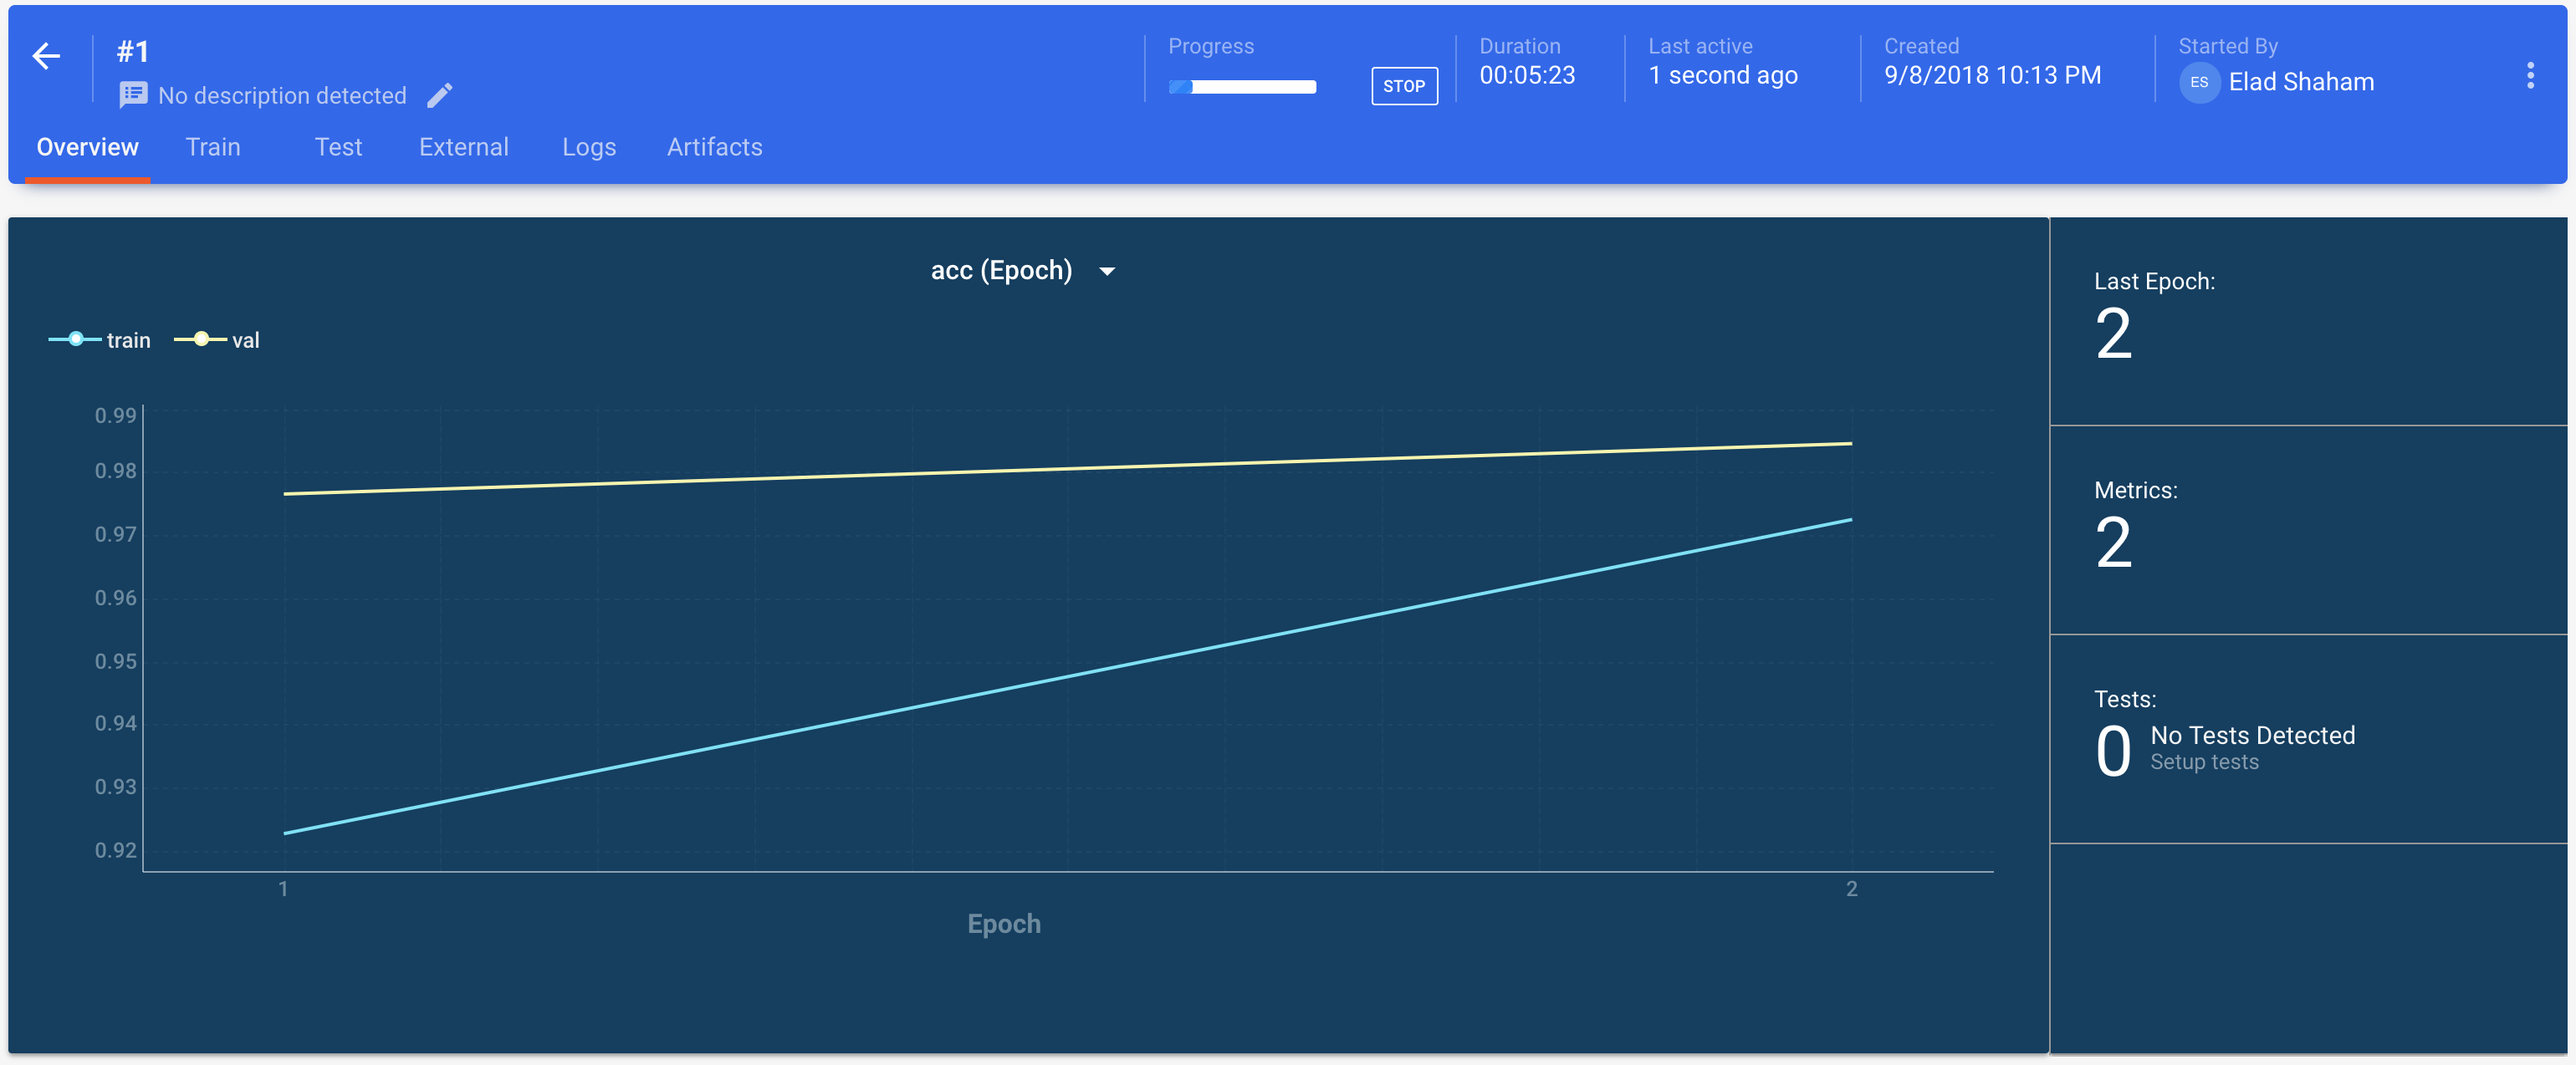
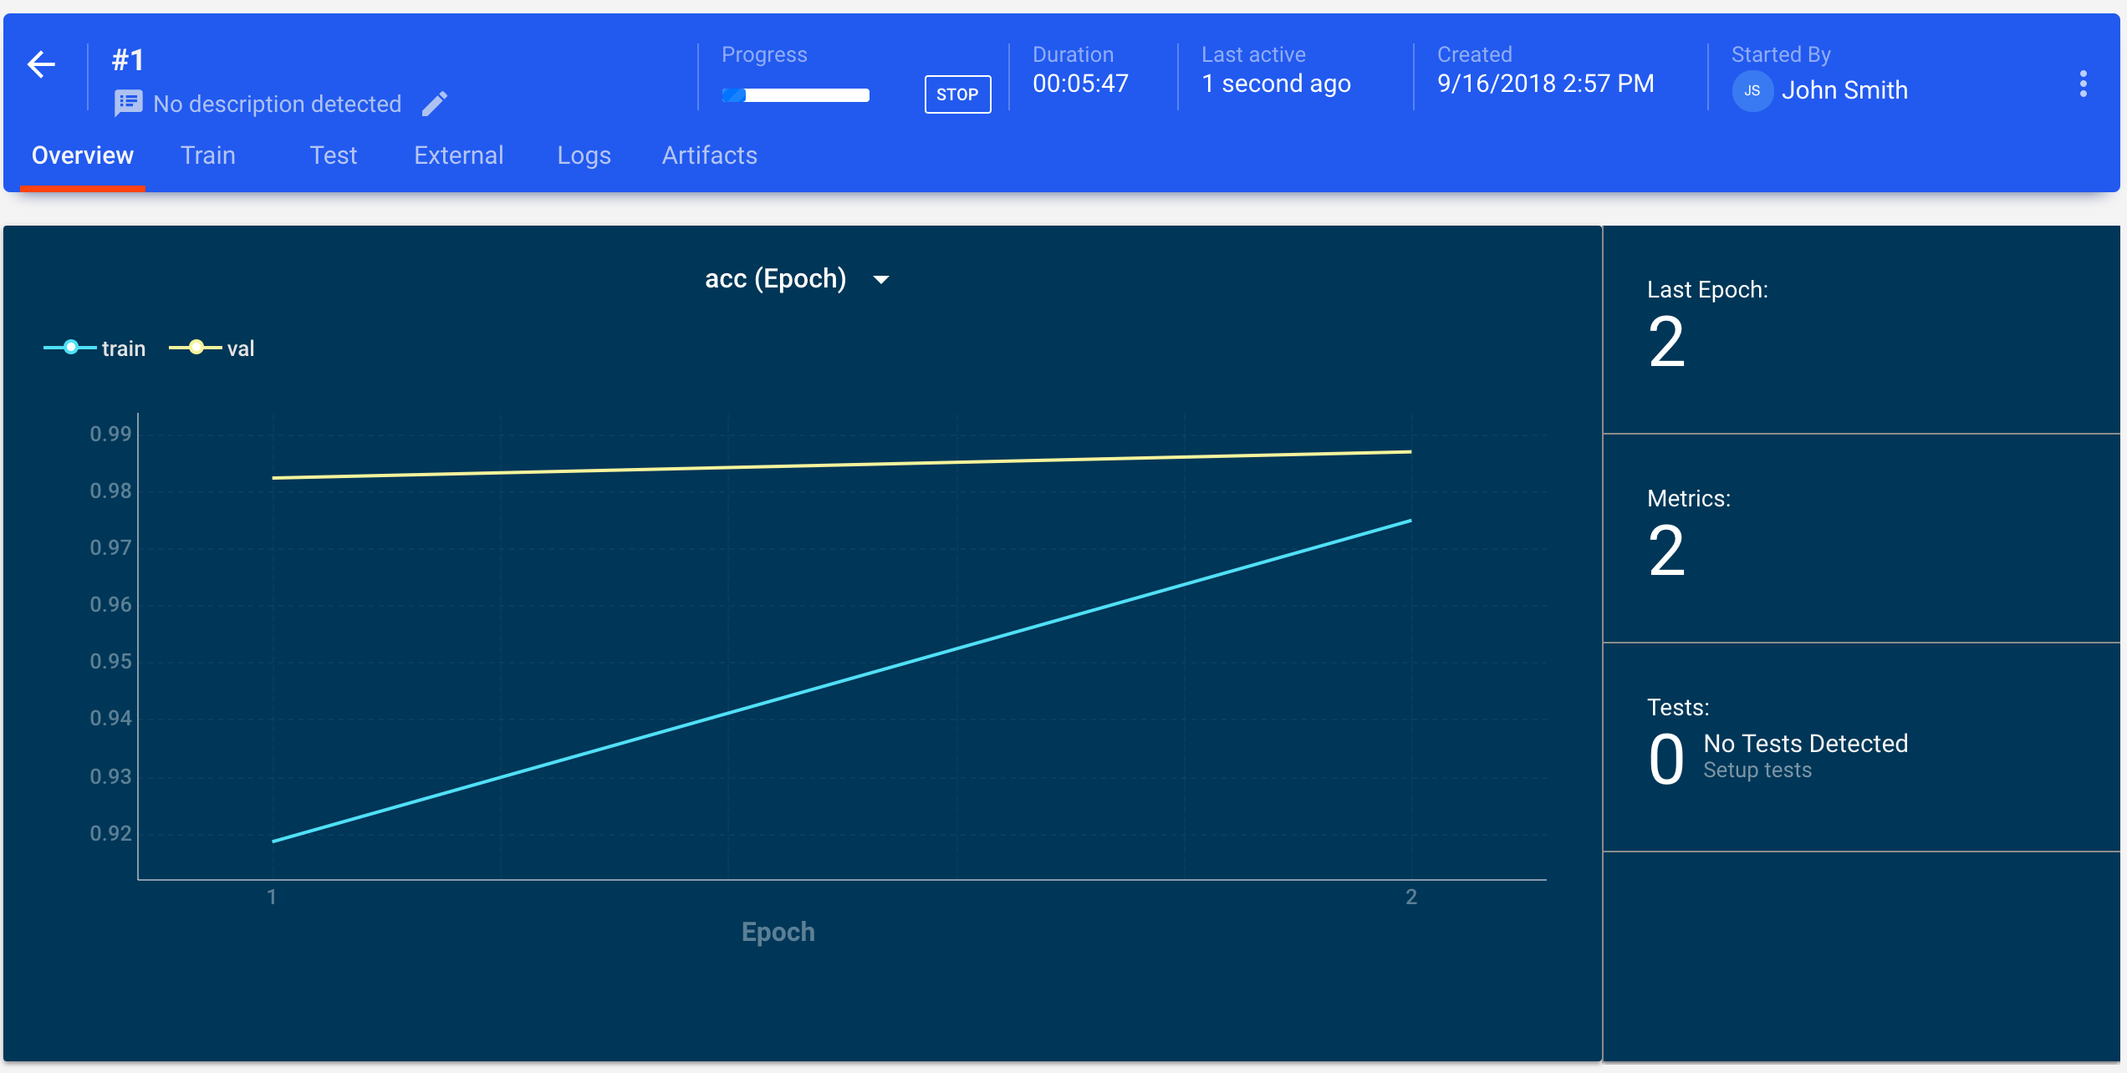
General edit and replacement of two images "John Smith"

diff --git a/docs/missinglink-keras-tutorial1.md b/docs/missinglink-keras-tutorial1.md
@@ -1,46 +1,49 @@
-# Intro
+# Introduction
 
-In this tutorial we will take an existing implementation of a deep learning algorithm and integrate it into the MissingLink system. We will take a code sample training on the MNIST dataset using a convolutional neural network, add the MissingLink SDK and eventually run the experiment in a MissingLink controlled emulated server.
+In this tutorial we will take the existing implementation of a deep learning algorithm and integrate it into the MissingLink system. 
+
+We start with a [code sample](https://github.com/keras-team/keras/blob/master/examples/mnist_cnn.py) that trains a model that is based on the MNIST dataset using a convolutional neural network, add the MissingLink SDK and eventually run the experiment in a MissingLink controlled emulated server.
 
 # Getting Started
 
 ## Prerequisites
 
-To run this tutorial you will need a MissingLink account. If don't already have one, please [head to the MissingLink website and sign up](https://missinglink.ai/console/signup/userdetails).
+To run this tutorial you will need a MissingLink account. If you don't have one, please [head to the MissingLink website and sign up](https://missinglink.ai/console/signup/userdetails).
 
 ---
 **NOTE**  
-This tutorial is assuming you’re using virtualenv to scope your working environment.
-If you don't have it installed already, you can follow [this guide](https://packaging.python.org/guides/installing-using-pip-and-virtualenv/).
+This tutorial assumes you’re using virtualenv to scope your working environment.
+If you don't have it installed, you can follow [this guide](https://packaging.python.org/guides/installing-using-pip-and-virtualenv/) to get it set up.
 
 ---
 
-## First Thing’s First
+## First Things First
 
-Let’s head to the MissingLink Keras Tutorial 1 [Github repository](https://github.com/missinglinkai/missinglink-keras-tutorial1), and examine it. Notice it contains the program file, `mnist_cnn.py`, and a `requirements.txt` file. This code trains a simple convnet on the MNIST dataset (borrowed from [Keras examples](https://github.com/keras-team/keras/blob/master/examples/mnist_cnn.py)).  
+Let’s head to the MissingLink Keras Tutorial 1 [Github repository](https://github.com/missinglinkai/missinglink-keras-tutorial1), and examine it.
 
-In order for us to make changes, we will need to create a copy of the repo and fetch it to your local development environment.  
-Please go ahead and create a fork of the [tutorial repository](https://github.com/missinglinkai/missinglink-keras-tutorial1), by clicking on the fork button.
+ Notice it contains the program file, `mnist_cnn.py`, and a `requirements.txt` file. This code trains a simple convnet on the MNIST dataset (borrowed from [Keras examples](https://github.com/keras-team/keras/blob/master/examples/mnist_cnn.py)).  
+
+To make changes, you will need to create a copy of the repo and fetch it to your local development environment. Please go ahead and create a fork of the [tutorial repository](https://github.com/missinglinkai/missinglink-keras-tutorial1) by clicking the fork button.
 
 ![Fork on Github](../images/fork_repo.png)
 
 <!--- TODO: take another screenshot when we make the repo public --->
 
-After the forked repository was created, we will need to clone it locally in our workstation. Click the clone button in Github:
+After the forked repository is created, clone it locally in your workstation. Click the clone button in Github:
 
 ![Fork on Github](../images/clone_button.png)
 
-Now copy the url for cloning the repository:
+Now copy the URL for cloning the repository:
 
 ![Copy repo url](../images/copy_repo_url_button.png)
 
-Next, let’s open our terminal and git clone using the pasted url of your forked repository:  
+Next, let’s open a terminal and `git clone` using the pasted URL of your forked repository:  
 
 ```bash
 $ git clone git@github.com:<YOUR_GITHUB_USERNAME>/missinglink-keras-tutorial1.git
 ```
 
-Now that the code is on your machine, let's prepare our environment:
+Now that the code is on your machine, let's prepare the environment. Run the following commands:
 
 ```bash
 $ python3 -m virtualenv env
@@ -62,23 +65,26 @@ As you can see, the code runs the experiment in 12 epochs.
 
 # Integrating the MissingLink SDK
 
-Now, let's see how by adding a few lines of code and a few commands, we're able to follow our experiment in MissingLinks web dashboard.
+Now, let's see how, by adding a few lines of code and a few commands, we're able to follow the experiment in MissingLink's web dashboard.
 
-## Install and init the MissingLink CLI
+## Install and initialize the MissingLink CLI
 
-MissingLink provides a CLI (command line interface) which allows you to control everything from the terminal.
+MissingLink provides a command line interface (CLI) that allows you to control everything from the terminal.
+
 Let's go ahead and install it:
 
 ```bash
 $ pip install MissingLink
 ```
 
-Next we want to authenticate with the MissingLink backend.
+Next, authenticate with the MissingLink backend.
 
 ---
-**NOTE**  
+**NOTE**
 Once you run the following command, a browser window will launch and navigate to the MissingLink website.
-If you're not logged in, you will be asked to login. When the process is completed, you will get a message to go back to the console.
+
+If you're not logged in, you will be asked to log on. When the process is completed, you will get a message to go back to the terminal.
+
 
 ---
 
@@ -96,14 +102,14 @@ $ ml projects create --display-name tutorials
 
 ---
 **NOTE**  
-You can see a list of all your projects by running `ml projects list`, or obviously by going to the [MissingLink web console](https://missinglink.ai/console).
+You can see a list of all your projects by running `ml projects list`, or obviously, by going to the [MissingLink web dashboard](https://missinglink.ai/console).
 
 ---
 
 ## Updating the requirements
 
-Let's go ahead and open the code in your favorite IDE.
-We need to add the MissingLink SDK as a requirement under `requirements.txt` file:
+Go ahead and open the code in your favorite IDE.
+Add the MissingLink SDK as a requirement under the `requirements.txt` file:
 
 ```diff
 tensorflow
@@ -111,7 +117,7 @@ keras
 +missinglink
 ```
 
-Now let's install the new requirements:
+Now install the new requirements:
 
 ```bash
 $ pip install -r requirements.txt
@@ -133,7 +139,7 @@ epochs = 12
 // ...
 ```
 
-Now we need to initialize a callback object that we could have Keras call during the different stages of the experiment.
+Now we need to initialize a callback object that Keras will call during the different stages of the experiment:
 
 <!--- TODO: Make sure it works without user id and project id / token) --->
 
@@ -151,8 +157,9 @@ epochs = 12
 // ...
 ```
 
-Finally let's have Keras use our callback object. We want to add calls during fitting and test stages.  
-Let's scroll all the way to the bottom of the file and add the MissingLink callback to the `fit()` function call:
+Finally, let Keras use our callback object. We want to add calls during the training and test stages.  
+
+Scroll all the way to the bottom of the file and add the MissingLink callback to the `fit()` function call:
 
 ```diff
 // ...
@@ -169,7 +176,7 @@ print('Test accuracy:', score[1])
 // ...
 ```
 
-Lastly, we want to let the MissingLink SDK know we're starting the testing stage:
+Lastly, let the MissingLink SDK know we're starting the testing stage:
 
 ```diff
 // ...
@@ -190,31 +197,31 @@ print('Test accuracy:', score[1])
 ```
 
 ## Run the Integrated Experiment
-We're now all set up to run the experiment again, but this time to see it in the Missing Link dashboard.  
+We're all set up to run the experiment again, but this time to see it in the Missing Link dashboard.  
 
-Let's go back to the terminal and run our script again:
+Go back to the terminal and run the script again:
 
 ```bash
 $ python mnist_cnn.py
 ```
 
-You should see the initialization and the beginning of training. Now, let's switch back to the MissingLink dashboard.
+You should see the initialization and the beginning of training. Now, switch back to the MissingLink dashboard.
 
-Open the [MissingLink console](https://missinglink.ai/console) and click on the projects toolbar button on the left. On this page you should see the list of experiments which belong to your project.
+Open the [MissingLink dashboard](https://missinglink.ai/console) and click the projects toolbar button on the left. In this page, you should see the list of experiments that belong to your project.
 
 ![List of projects](../images/project_list_tutorials_project.png)
 
-Choose the `tutorials` project, you will see your experiment appear.  
+Choose the `tutorials` project. Your experiment appears.  
 
-![Experiment in list](../images/tutorials_experiment.png)
+![Experiment in list](../images/tutorial_experiment.png)
 
-Now you can click anywhere on the experiment line to show more info about the experiment's progress.
+Now you can click anywhere on the experiment line to show more information about the experiment's progress.
 
 ![Experiment detailed view](../images/tutorials_experiment_info.png)
 
 ---
 **NOTE**  
-Feel free to browse through the table and the different tabs of the experiment you're running, and see how the metrics update as the experiment progresses. This tutorial does not include an explanation about these screens. For a detailed walkthrough, click here.
+Feel free to browse through the table and the different tabs of the experiment you're running, and see how the metrics update as the experiment progresses. This tutorial does not include an explanation about these screens. 
 
 ---
 
@@ -230,26 +237,31 @@ $ git push
 
 # Adding Resource Management
 
-Now that we have everything working so nicely on our local workstation, we would like to take the integration to the next level. MissingLink can help you manage your servers so that you don't have to worry about it.
-
+Now that we have everything working on our local workstation, let's take the integration to the next level. 
 <!--- TODO: Link to a good RM explanation --->
 
-The next step for us would be to run the experiment on a managed server. For the sake of simplicity, we will not connect real GPU servers in this tutorial, but rather emulate a real server on our local workstation. But it should definitely give you a sense of how it would work when running on real servers.
+<!--- Moshe: which page can we link to in RM docs? --->
+
+The next step for us would be to run the experiment on a managed server. 
+MissingLink can help you manage your servers, so that you don't have to worry about it.
+
+For the sake of simplicity, we will not connect real GPU servers in this tutorial, but rather emulate a real server on our local workstation. This all should definitely give you a sense of how it would work when running on real servers.
 
 ## The Missing Step
 
-The most important step for setting up resource management in your project would be to give us access to your training machines. For that you will basically need to install missinglink on your existing machines, or give us limited access to your cloud hosting account so we can spin up machines for you. As mentioned above, we will not do this step in this tutorial.
+The most important step for setting up Resource Management in your project would be to give us access to your training machines. To enable access, you will  need to install MissingLink on your existing machines, or give us limited access to your cloud hosting account so we can spin up machines for you. As mentioned above, we will not perform this step in this tutorial.
 
 ## Let's emulate
 
-Now for some magic; We'll need to run a command for launching the local server using the MissingLink CLI.
-Let's run the following in our terminal:
+Now for some magic.
+
+We'll need to run a command for launching the local server using the MissingLink CLI. Run the following in your terminal:
 
 ```bash
 $ ml run local --git-repo git@github.com:<YOUR_GITHUB_USERNAME>/missinglink-keras-tutorial1.git --command "python mnist_cnn.py"
 ```
 
-This command would take the code you've committed to your forked repository, clone it to your local server, install the requirements and run `python mnist_cnn.py`.
+This command takes the code you've committed to your forked repository, clones it to your local server, installs the requirements, and runs `python mnist_cnn.py`.
 
 ---
 **NOTE**  
@@ -259,19 +271,22 @@ The command for running the same thing on a real server is very similar.
 
 ## Observe the progress
 
-If everything goes well, we can now observe the progress of our experiment, running on a managed server, right in the dashboard.  
-Go to https://missinglink.ai/console and click on the Resource Groups toolbar button on the left. You should see a newly created resource group representing our local emulated server.
+If everything goes well, we can now observe the progress of our experiment, running on a managed server, right in the dashboard.
+
+Go to https://missinglink.ai/console and click the Resource Groups toolbar button on the left. You should see a newly created resource group representing our local emulated server.
 
 <!--- TODO: Add a screenshot of the resource group --->
 
 ---
 **NOTE**  
-This resource group is temporary and would disappear from the list once the job we're running is completed.
+This resource group is temporary and will disappear from the list once the job we're running is completed.
 
 ---
 
-Click on the line showing the emulated server - you would be navigated to see the logs of the task running in our local server.
+Click on the line showing the emulated server. You are taken to a view of the logs of the task running in our local server.
 
 <!--- TODO: Add a gif showing the progress of the logs --->
 
-Let's go see the actual progress of our experiment. Click on the projects toolbar button on the left and choose the `tutorials` project. You should see the new experiment's progress.
+Let's see the actual progress of our experiment. Click the projects toolbar button on the left and choose the `tutorials` project. You should see the new experiment's progress.
+
+<!--- Moshe: Screenshots have the name Elad Shaham. OK? --->
